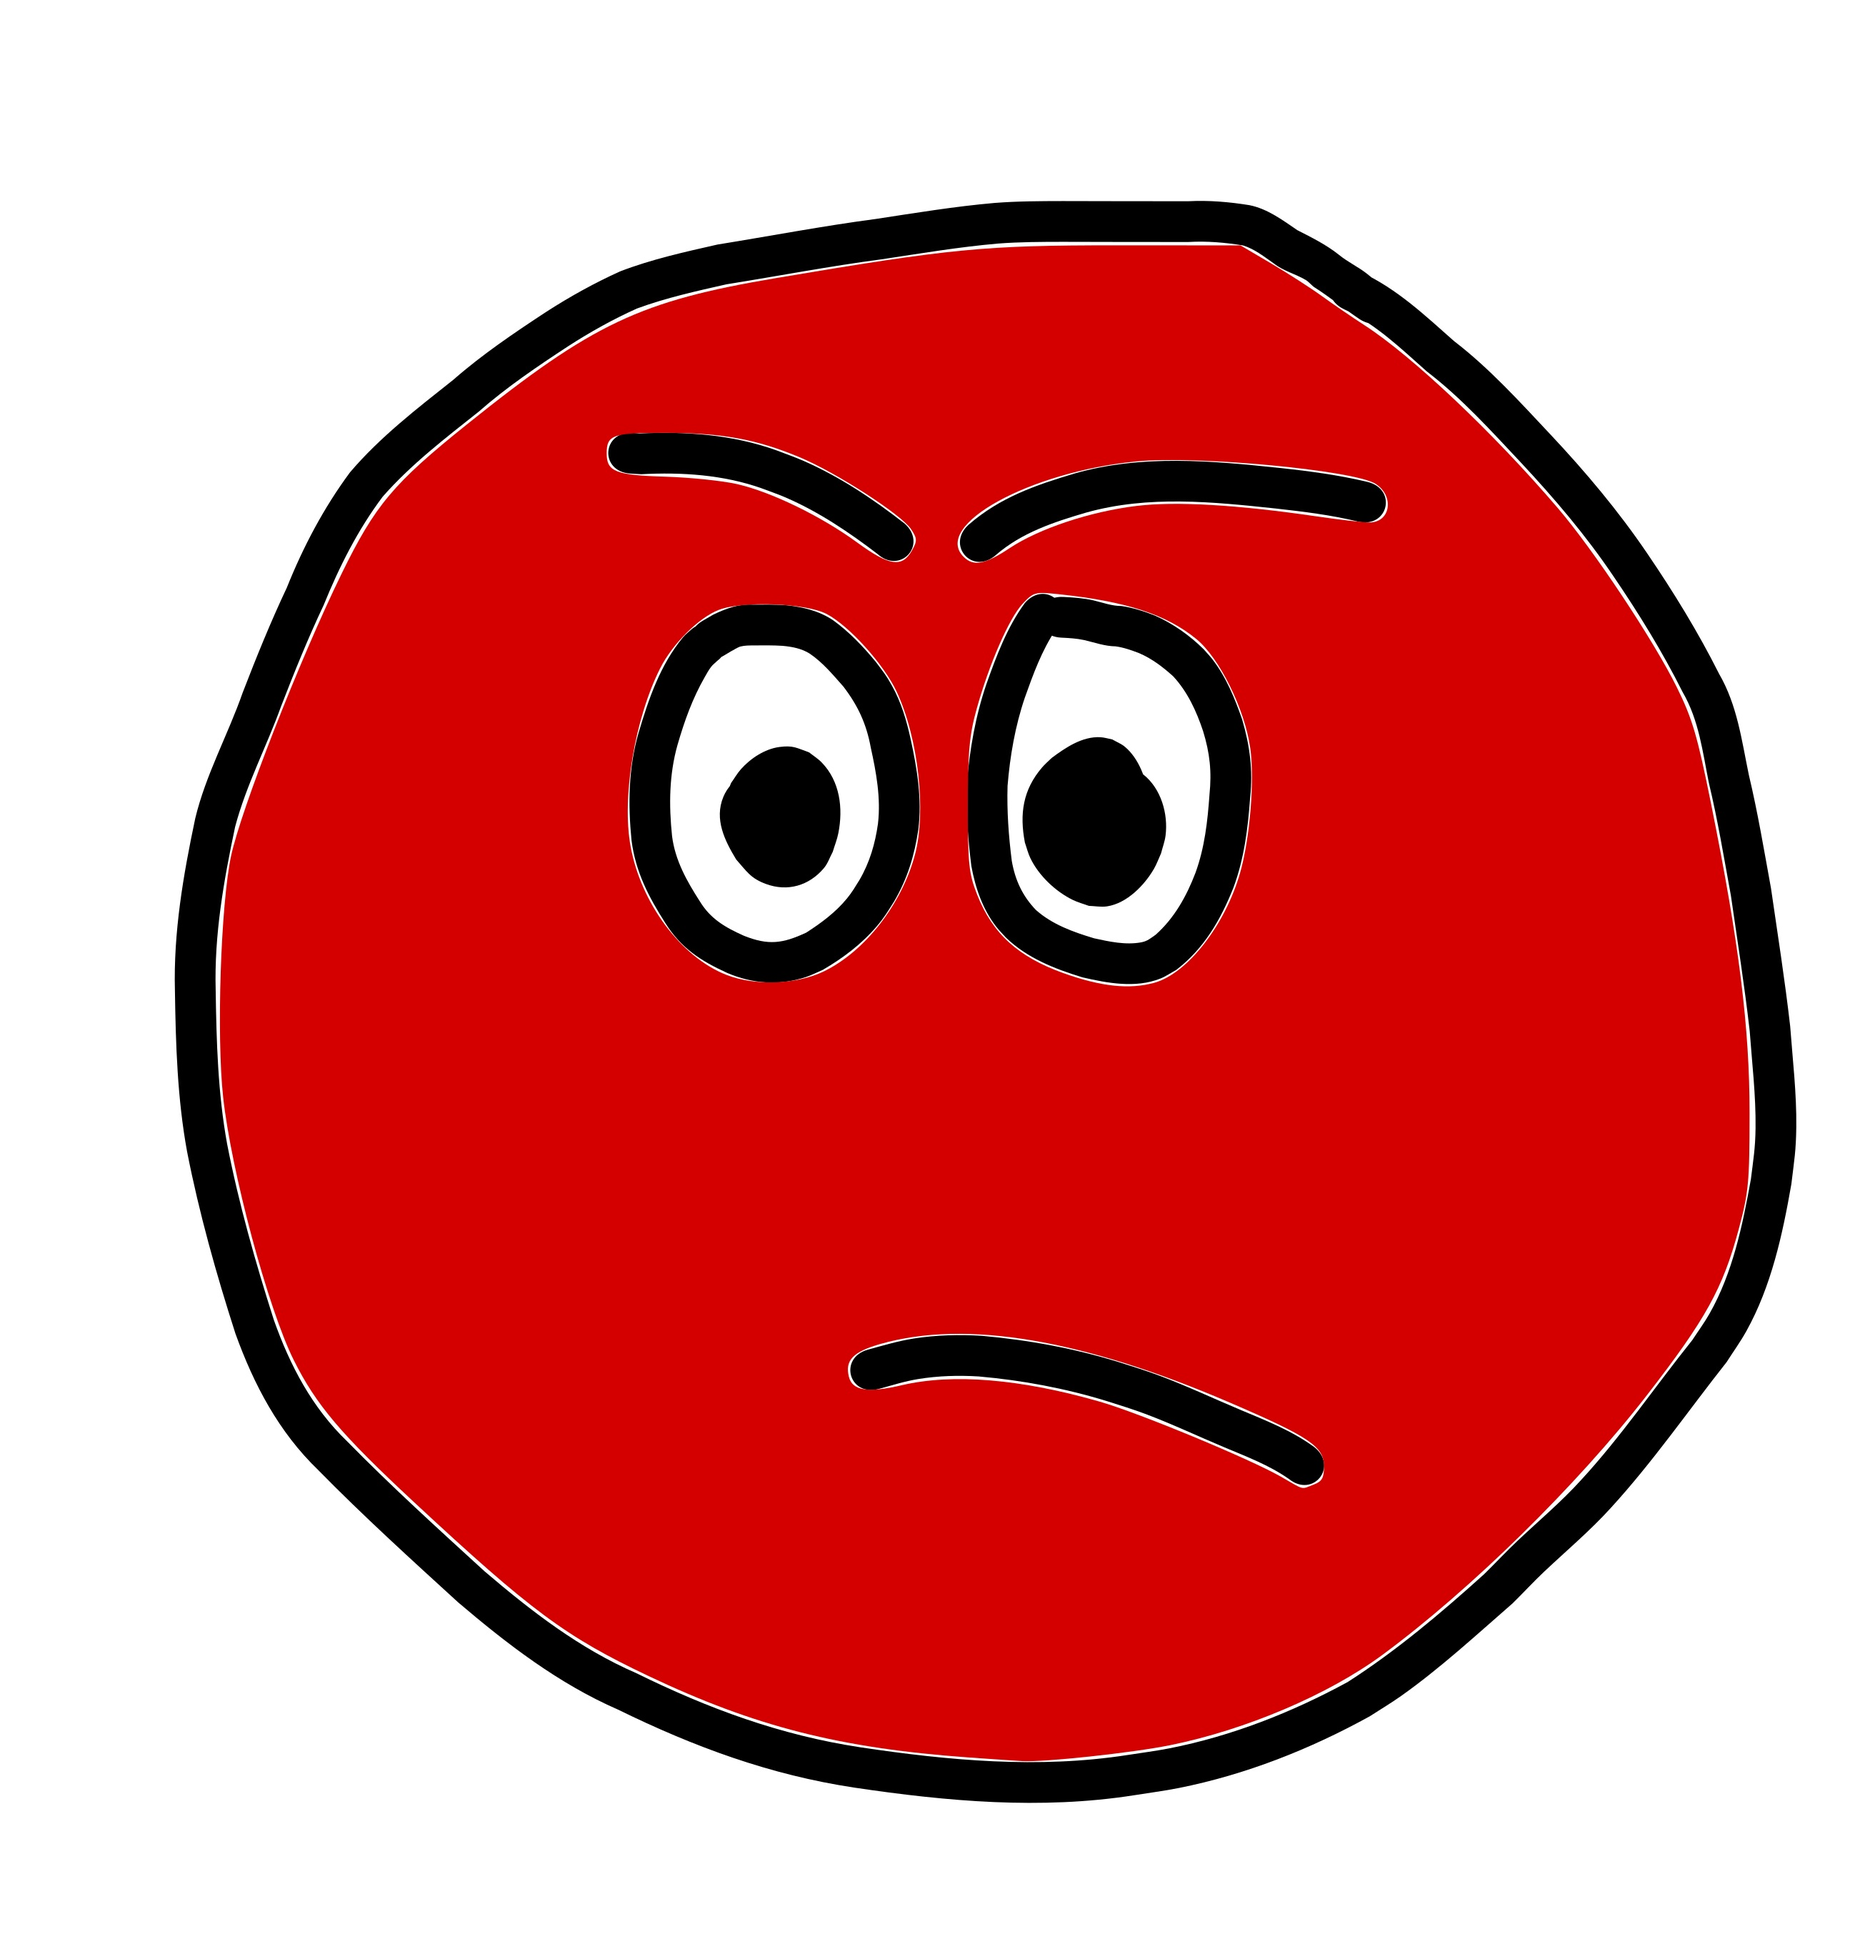
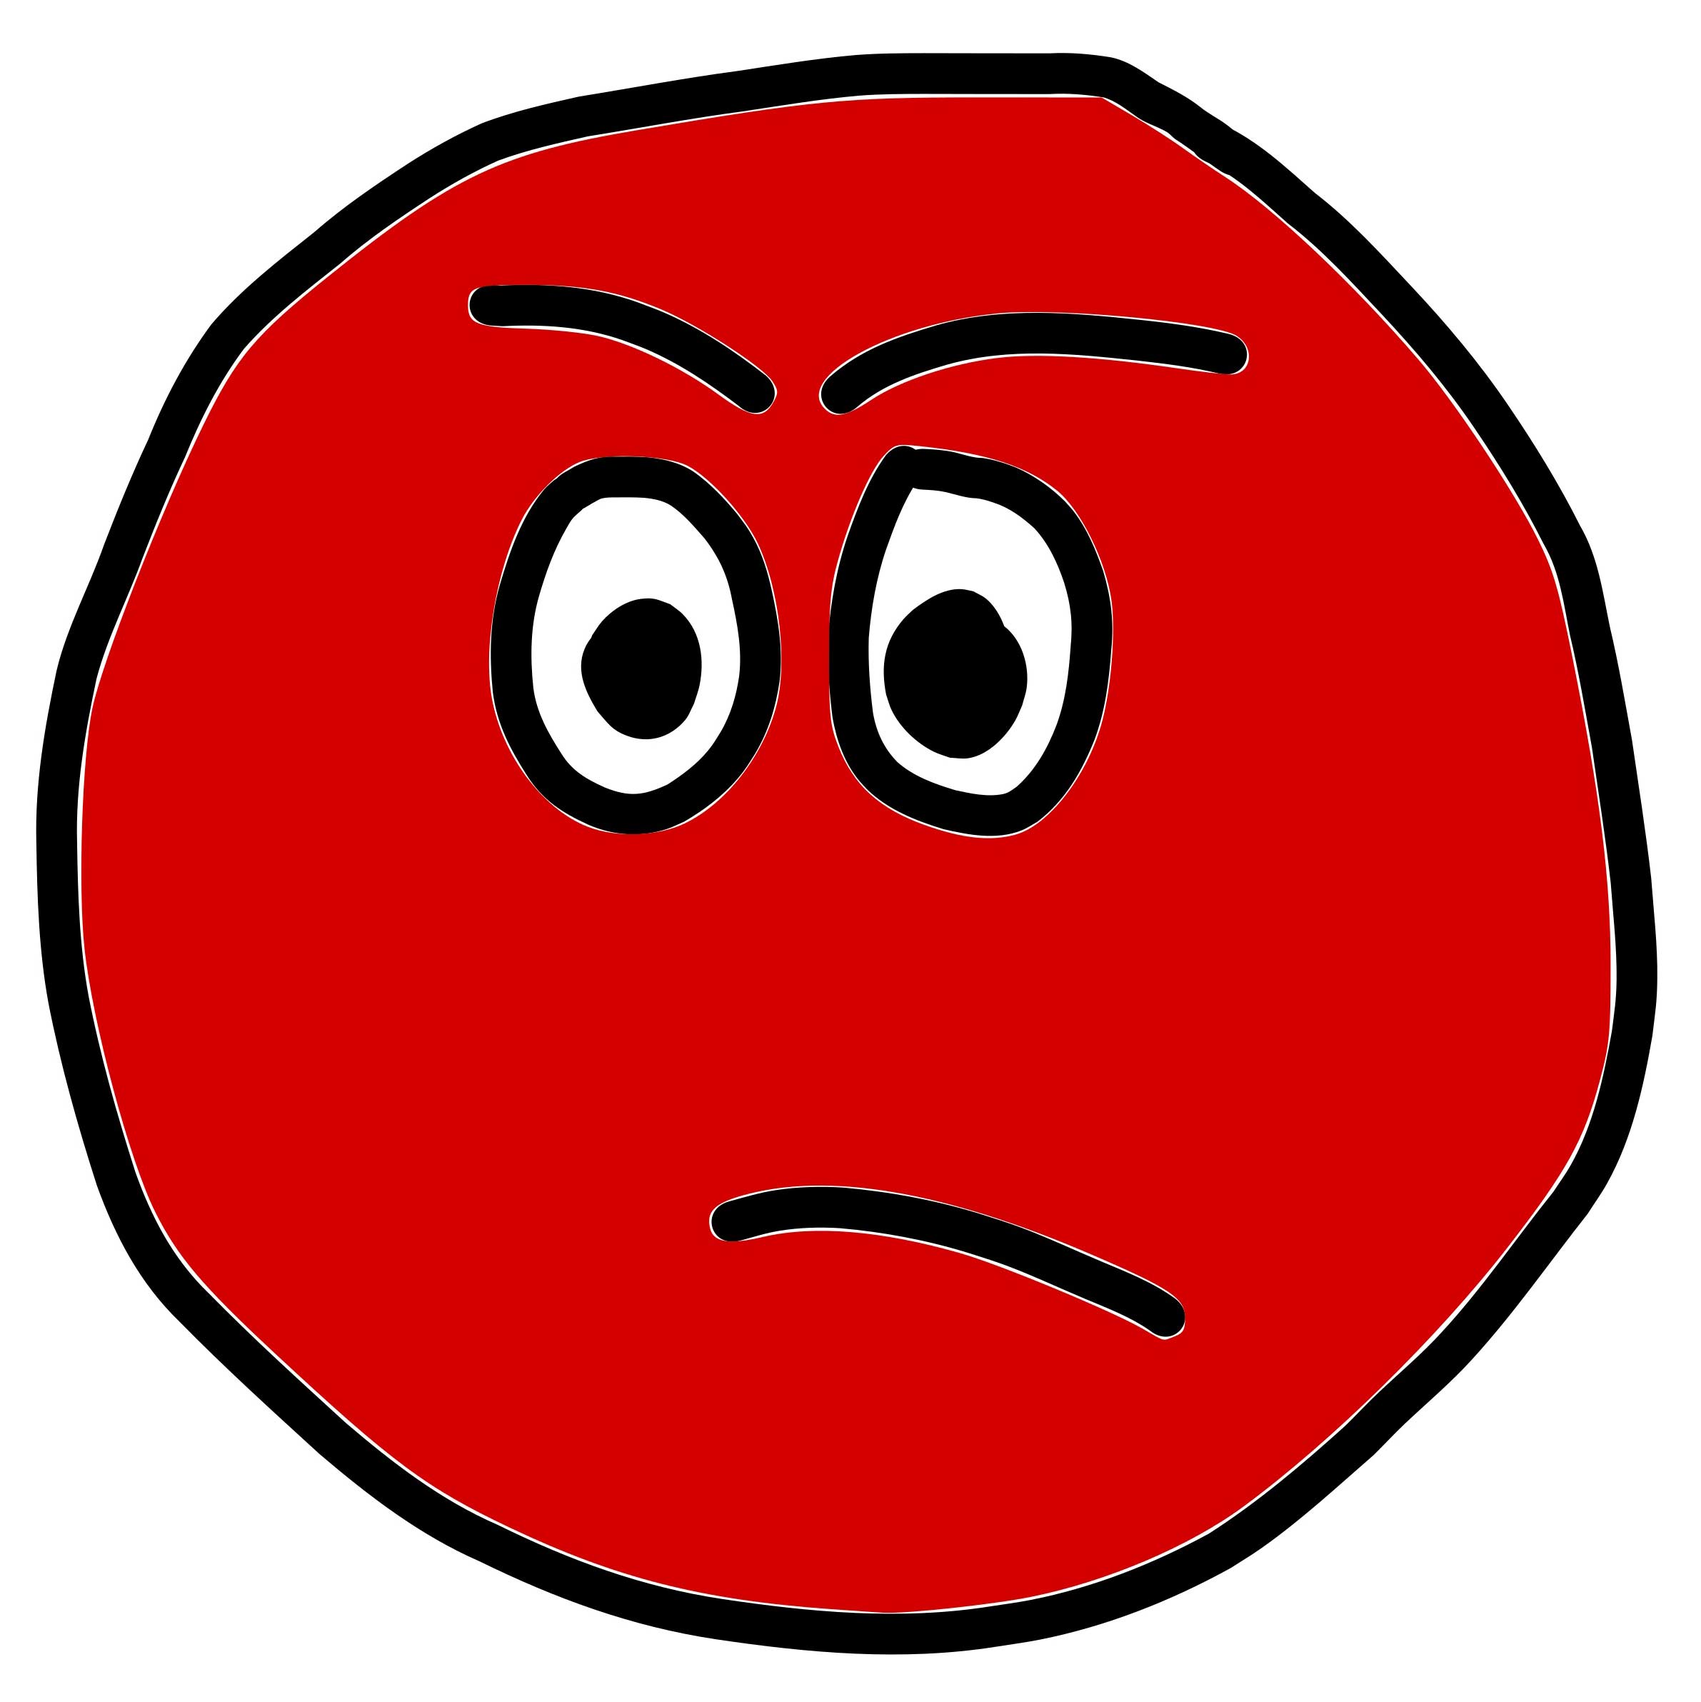
add post

Changed region(s): [[0.0, 0.0311, 0.9941, 0.9937], [0.4039, 0.6832, 0.7145, 0.8074]]

diff --git a/css/main.css b/css/main.css
@@ -42,7 +42,7 @@ p a {
 }
 
 h1, h2, h3, h4, h5, h6 {
-  font-family: "Linux Biolinum Capitals", 'Open Sans', 'Helvetica Neue', Helvetica, Arial, sans-serif;
+  font-family: "Linux Biolinum Capitals", "Linux Biolinum", 'Open Sans', 'Helvetica Neue', Helvetica, Arial, sans-serif;
   font-weight: 700;
   font-weight: bold;
   text-transform: capitalize;
@@ -206,7 +206,7 @@ img {
 .navbar-custom {
   background-color: var(--navbar-color);
   border-bottom: 1px solid #DDDDDD;
-  font-family: "Linux Biolinum Capitals", 'Open Sans', 'Helvetica Neue', Helvetica, Arial, sans-serif;
+  font-family: "Linux Biolinum Capitals", "Linux Biolinum", 'Open Sans', 'Helvetica Neue', Helvetica, Arial, sans-serif;
   -webkit-transition: padding .5s ease-in-out;
   -moz-transition: padding .5s ease-in-out;
   transition: padding .5s ease-in-out;
@@ -259,9 +259,9 @@ img {
 }
 
 .navbar-brand {
-  font-family: 'Rouge Script',"Linux Biolinum", 'Open Sans', 'Helvetica Neue', Helvetica, Arial, sans-serif;;
+  font-family: 'Rouge Script', "Linux Biolinum", 'Open Sans', 'Helvetica Neue', Helvetica, Arial, sans-serif;;
   font-size: 26px;
-  text-shadow: 3px 3px 3px rgba(0,0,0,0.2);
+  text-shadow: 3px 3px 3px rgba(0, 0, 0, 0.2);
 }
 
 @media only screen and (max-width: 425px) {
@@ -1145,7 +1145,7 @@ logo-main a:hover {
 /* --- Pager --- */
 
 .pager li a {
-  font-family: "Linux Biolinum Capitals", 'Open Sans', 'Helvetica Neue', Helvetica, Arial, sans-serif;
+  font-family: "Linux Biolinum Capitals", "Linux Biolinum", 'Open Sans', 'Helvetica Neue', Helvetica, Arial, sans-serif;
   text-transform: uppercase;
   font-size: 1.5rem;
   font-weight: 800;

diff --git a/_includes/giscus.html b/_includes/giscus.html
@@ -1,9 +1,9 @@
 <!-- https://giscus.app/ -->
 <script src="https://giscus.app/client.js"
         data-repo="cesarsotovalero/cesarsotovalero.github.io"
-        data-repo-id="MDEwOlJlcG9zaXRvcnkyMzE2NzM0OTI="
+        data-repo-id="${{ secrets.GISCUS_DATA_REPO_ID }}"
         data-category="Announcements"
-        data-category-id="DIC_kwDODc8OlM4B-aMB"
+        data-category-id="${{ secrets.GISCUS_DATA_CATEGORY_ID }}"
         data-mapping="pathname"
         data-reactions-enabled="1"
         data-emit-metadata="1"

diff --git a/_posts/2021-7-27-replace-disqus-with-a-better-alternative.md b/_posts/2021-7-27-replace-disqus-with-a-better-alternative.md
@@ -1,69 +1,132 @@
 ---
 layout: post
-title:  Replace disqus comments system on your Jekyll blog 
-subtitle: The GitHub based open-source alternatives are much better
-description: Disqus started polluting users with unwanted ads; it's time to migrate your blog's discussion management system with better open-source alternatives.
-tags: research
-published: false
-keywords: blog, comments, disqus, open-source
+title:  Replace the disqus commenting system on your blog 
+subtitle: GitHub-based open-source alternatives are much better
+description: Disqus started polluting free users with unwanted ads; it's time to replace Disqus with better open-source alternatives.
+tags: tools
+published: true
+keywords: blog, comments, disqus, replace
 image: https://cf.jare.io/?u=https://www.cesarsotovalero.net/img/posts/angry-emoji.jpg
 share-img: https://cf.jare.io/?u=https://www.cesarsotovalero.net/img/posts/angry-emoji.jpg
 show-avatar: false
 date: 2021/7/27
 ---
 
-I started using [Disqus](https://disqus.com) in 2018. 
-At that time, Disqus was arguably the leading comment management system of the web: ubiquitous integration, easy to set up, clean comment widget design, excellent spam filters, great content engaging features, etc.
-Two years later (January 2020), Disqus started polluting their free users with unwanted ads; it now charging a monthly fee to remove them.
-This change affects a large number of small businesses and bloggers that rely on Disqus to handle their comments.
-
-
-> For an inexpensive monthly fee [$10/month per site] publishers will be able to completely remove ads and take advantage of all of Disqus’ basic features and functionality. -- Disqus
-
-It's time to migrate your blog's discussion management system with better open-source alternatives.
-
-Features such as powerful moderation and admin tools, spam filtering, blacklisting, email notifications, and well designed threaded comments are just a few reasons why it has become popular over the years.
-
-
-
-I see that you're using utterances for comments. As we know, it utilizes GitHub Issues, which (given enough time) would flood your repository's issues with comments.
-
-I've been developing an alternative: giscus, a similar project that utilizes GitHub Discussions instead. It has support for replies and other cool stuff from GitHub Discussions. The big advantage is the fact that it uses your repository's Discussions, which is more suitable for comments. I would really appreciate it if you tried it. Feedback is welcome, the code is open source.
-
-You can convert existing issues into discussions, as described here.
-
+I started using [Disqus](https://disqus.com) in 2018.
+At that time, it was ~~arguably~~ the leading comment management system for both small and large websites.
+Its popularity was well deserved: ubiquitous integration, easy to set up, friendly admin panel, clean comment widget design, excellent spam filters, [great content engaging features](https://disqus.com/features/engage/), etc.
+Two years later, in January 2020, Disqus started polluting their free users with [unwanted ads](https://help.uberflip.com/hc/en-us/articles/360023372611-Unwanted-ads-appear-on-Hub).
+At the time of writing this post, Disqus is charging a monthly fee of $10/month per site to remove the ads.
+This change affects a large number of small businesses and bloggers that rely on Disqus to handle their visitors' comments.
+Fortunately, there are now great open-source alternatives out there that allow GitHub users to get rid of Disqus.
+In this post, I'll show you how I set up [Giscus](https://giscus.app) on this blog.
+Gisqus is an open-source comment system that relies on GitHub Discussions to securely and effectively manage comments.
 
 <figure class="jb_picture">
-  {% responsive_image path: img/posts/ladybug.jpg alt: "Disqus' intrusive ads."%}
+  {% responsive_image path: img/posts/disqus-ads.jpg alt: "Disqus' intrusive ads suddenly appearing on my blog."%}
   <figcaption class="stroke">
-    &#169; Disqus' intrusive ads.
+    &#169; Disqus' intrusive ads suddenly appeared on my blog.
   </figcaption>
 </figure>
 
+Comment management is a crucial part of the blogging routine.
+Comments are the perfect bridge to engage with your readers.
+From small to prominent blogs, moderating visitor comments can consume a considerable amount of time.
+I used to rely on Disqus for handling my blog's comments.
+Disqus is one of the world's leading comment management systems, it is massively used by thousand of websites. 
+However, Disqus suddenly started to introduce ads on my website, asking for an ~~inexpensive~~ monthly fee in exchange for their removal.
 
-Jekyll + GitHub Pages
-Plus, because GitHub pages are powered by Jekyll (one of the GitHub founders created it back in 2008.), you can deploy your newly created Jekyll site on GitHub - completely free.
+> "For an inexpensive monthly fee publishers will be able to completely remove ads and take advantage of all of Disqus’ basic features and functionality." -- [Disqus](https://blog.disqus.com/our-plans-for-2017)
 
-# Why removing
+This is a bad move from Disqus, especially for small blogs that cannot afford this significant fee. 
+So, it is time to replace it for the better of the visitors and the pocket.
 
-- 
+# Why replacing Disqus?
 
-# Pros
+These are the primary reasons to get rid of Disqus:
 
-Both are ideal solutions for sites with an audience that skews towards developers and may already have a GitHub account. I want something platform agnostic and didn’t require any sort of account to leave a comment… so the search continued.
-
-- [Performance increase](https://chrislema.com/killed-disqus-commenting/)
-
-
-# Cons
-
+- **Spammy ads**: Disqus ads are just horrible. They cover a large portion of the screen and tend to be either clickbait or fake news.
+- **Performance issues:** Disqus is know to degrade [page load time](https://chrislema.com/killed-disqus-commenting/). This is mostly due to the syncing of comments back and forth, and calling third party scripts when loading ads.
+- **Privacy concerns:** Disqus introduces an additional layer of complexity to your website, forcing visitors to log in with their social media accounts when commenting opens the door to privacy issues.
 
 # Alternatives
 
-- [https://gitalk.github.io/](https://gitalk.github.io/)
-- [https://utteranc.es](https://utteranc.es)
-- [Staticman](https://staticman.net/)
+Luckly, there are great open-source alternatives to Disqus:
 
-Adding static comments to a Jekyll site with Staticman
+- **[Giscus](https://giscus.app):** My preferred choice. It relies on GitHub discussions, which means that it supports replies and other cool features.
+- **[Utterances](https://utteranc.es):** A lightweight comments widget built on GitHub Issues. It is one of the most widely used alternatives out there. However, given enough time, it will flood your repository's issues with comments.
+- **[Gitalk](https://gitalk.github.io):** A modern component based on GitHub Issues and Preact. It supports cool features such as Facebook-like distraction free mode, hotkeys, and automatic language localization. 
+
+These GitHub-based solutions are ideal for sites with an audience that skews towards developers who already have a GitHub account. 
+
+# Setting up Giscus
+
+[This blog](https://www.cesarsotovalero.net/blog) runs on GitHub pages, and [Jekyll](https://jekyllrb.com/) powers it.
+By the way, please [give it a start](https://github.com/cesarsotovalero/cesarsotovalero.github.io) if you like it :smiley:.
+Jekyll is a static site generator created by one of the GitHub founders in 2018.
+The principal advantage of Jekyll is that I can deploy my website on GitHub completely free.
+This means that all the GitHub features can be integrated as part of my blogging activities.
+
+[Giscus](https://giscus.app) utilizes GitHub Discussions as a backing data store.
+One significant advantage of Giscus concerning other GitHub-based commenting systems is that repository Discussions are more suitable for comments.
+For example, it supports comments replies, more engaging discussion reactions, and is easier to moderate. In addition, it is lightweight, easy to configure, and secure. Wit Giscus, there is no need to worry about GitHub API rate limits, managing server-side code, manually linking blog posts to issues, or forcing users to leave your site to post a comment.
+
+> **How it works?**
+>
+> "When giscus loads, the GitHub Discussions search API is used to find the Discussion associated with the page based on a chosen mapping (URL, pathname, \<title\>, etc.). If a matching discussion cannot be found, the giscus bot will automatically create a discussion the first time someone leaves a comment or reaction."
+>
+> "To comment, visitors must authorize the giscus app to post on their behalf using the GitHub OAuth flow. Alternatively, visitors can comment on the GitHub Discussion directly. You can moderate the comments on GitHub." -- [Gisqus](https://giscus.app)
+
+
+To set up Giscus, the GitHub repo has to meet only three requirement:
+
+1. The repo is [public](https://docs.github.com/en/github/administering-a-repository/managing-repository-settings/setting-repository-visibility#making-a-repository-public)
+2. The [giscus](https://github.com/apps/giscus) app is installed on the repository
+3. The Discussions feature is [turned enabled](https://docs.github.com/en/github/administering-a-repository/managing-repository-settings/enabling-or-disabling-github-discussions-for-a-repository)
+
+To insert Giscus, just add the following code where you want the comments to be displayed.
+
+{% highlight html linenos %}
+<script src="https://giscus.app/client.js"
+        data-repo="cesarsotovalero/cesarsotovalero.github.io"
+        data-repo-id="CATEGORY_ID"
+        data-category="Announcements"
+        data-category-id="REPO_ID"
+        data-mapping="pathname"
+        data-reactions-enabled="1"
+        data-emit-metadata="1"
+        data-theme="CUSTOM_CSS"
+        crossorigin="anonymous"
+        async>
+</script>
+{% endhighlight %}
+
+The `REPO_ID` and `CATEGORY_ID` can be obtained using the [Giscus](https://github.com/apps/giscus) form. The look and feel of the comments can be customized via `CUSTOM_CSS`. The following code is and example of how I changed the default font size of the [GitHub light syntax](https://github.com/primer/github-syntax-light/blob/master/lib/github-light.css) to meet the style of my blog:
+
+{% highlight css linenos %}
+mr-2 {
+  font-size: 20px;
+}
+
+.text-sm {
+  font-size: 18px;
+}
+
+.text-xs {
+  font-size: 12px;
+}
+{% endhighlight %}
+
+You can see my full customized CSS [here](https://www.cesarsotovalero.net/css/giscus.css).
+
 # Conclusion
+
+The time to quit Disqus has come for me.
+I prefer a lightweight, open-source, and free solution for handling my blog comments.
+I opted for Giscus, a great ad-free solution that provides an excellent user experience, especially to readers already familiar with GitHub.
+It's worth mentioning that this system relies on GitHub, a Microsoft product, so it is not wholly exempt from future changes.
+However, it is highly unlikely to expect some sort of fee for public repositories at the moment.
+If you have any questions, let me know in the Giscus-based comments below!
+
+
 
